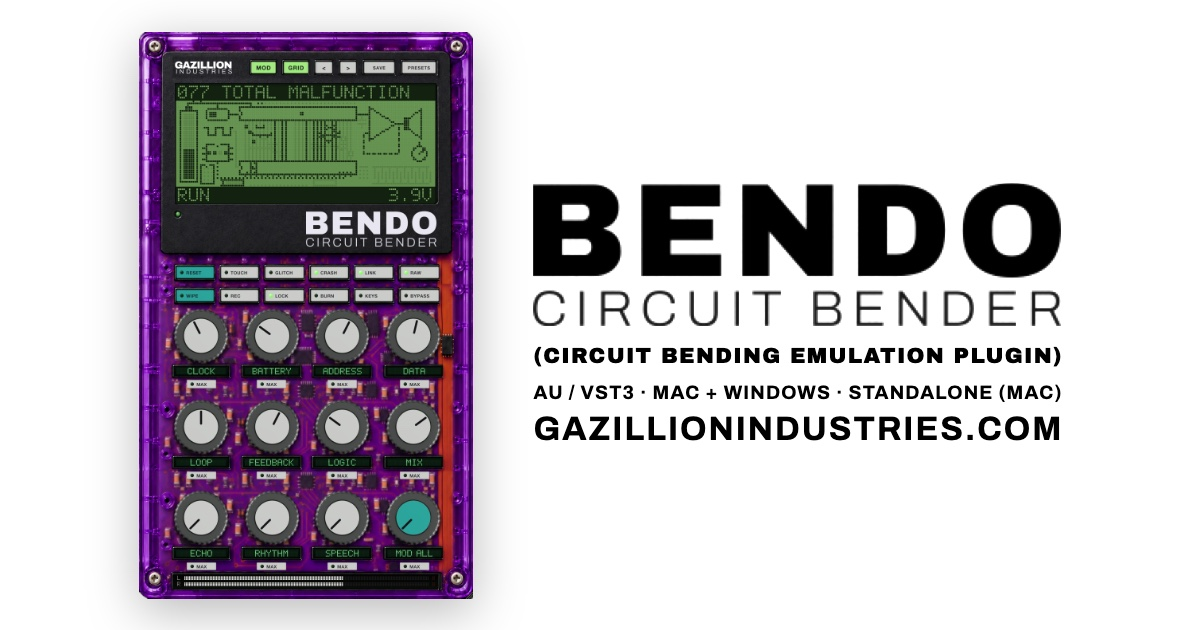
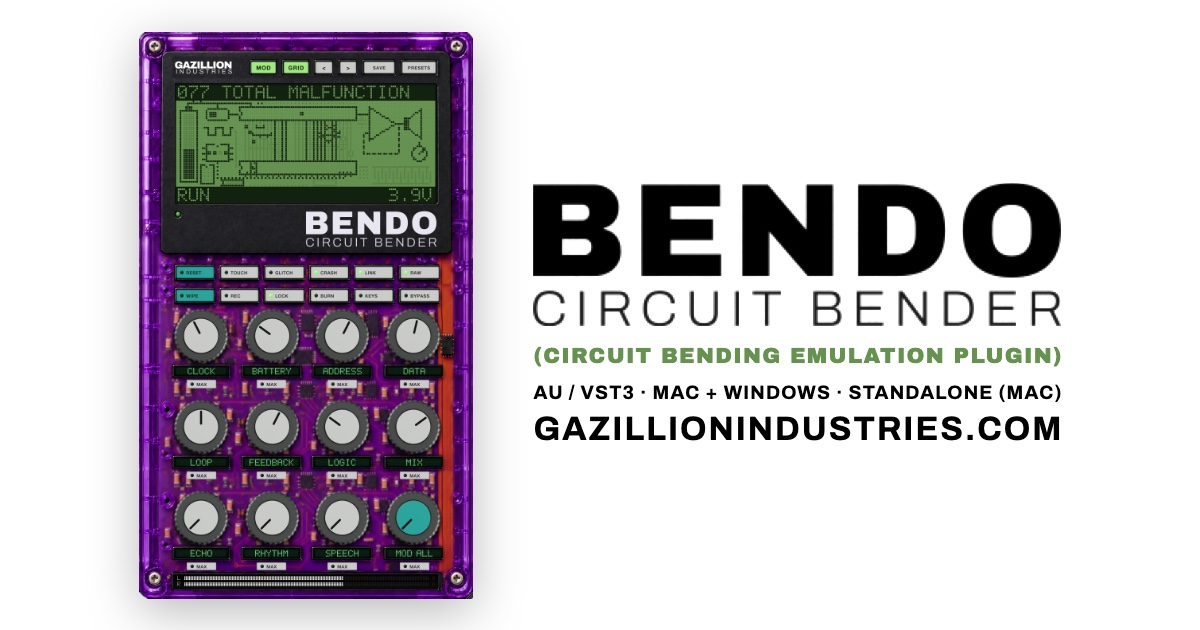
BENDO og card: category line in the panel's LCD green

Changed region(s): [[0.4317, 0.5429, 0.8942, 0.573]]

diff --git a/bendo/index.html b/bendo/index.html
@@ -1,4 +1,4 @@
-<!doctype html><html lang="en"><head><meta charset="utf-8"><meta name="viewport" content="width=device-width,initial-scale=1"><title>BENDO — circuit bending plugin</title><meta name="description" content="Add BENDO to any sound source to bend it, stretch it, or even break it. A circuit bending emulation plugin: 12 knobs, 12 keys and 83 programs. AU, VST3 and standalone on macOS; VST3 on Windows."><meta property="og:type" content="website"><meta property="og:site_name" content="Gazillion Industries"><meta property="og:title" content="BENDO — circuit bending plugin"><meta property="og:description" content="Add BENDO to any sound source to bend it, stretch it, or even break it. A circuit bending emulation plugin: 12 knobs, 12 keys and 83 programs. AU, VST3 and standalone on macOS; VST3 on Windows."><meta property="og:url" content="https://gazillionindustries.com/bendo/"><meta property="og:image" content="https://gazillionindustries.com/bendo/og.jpg?v=980ea2137cda"><meta property="og:image:width" content="1200"><meta property="og:image:height" content="630"><meta property="og:video" content="https://gazillionindustries.com/landing-20261010/bendo/media/demo.mp4?v=774a342211fb"><meta property="og:video:type" content="video/mp4"><meta property="og:video:width" content="720"><meta property="og:video:height" content="1220"><meta name="twitter:card" content="summary_large_image"><meta name="twitter:title" content="BENDO — circuit bending plugin"><meta name="twitter:description" content="Add BENDO to any sound source to bend it, stretch it, or even break it. A circuit bending emulation plugin: 12 knobs, 12 keys and 83 programs. AU, VST3 and standalone on macOS; VST3 on Windows."><meta name="twitter:image" content="https://gazillionindustries.com/bendo/og.jpg?v=980ea2137cda"><script type="application/ld+json">{"@context": "https://schema.org", "@type": "SoftwareApplication", "name": "BENDO", "alternateName": "BENDO Circuit Bender", "applicationCategory": "MultimediaApplication", "applicationSubCategory": "Circuit bending plugin", "operatingSystem": "macOS, Windows 64-bit", "softwareVersion": "2.0.1", "url": "https://gazillionindustries.com/bendo/", "image": "https://gazillionindustries.com/bendo/og.jpg?v=980ea2137cda", "description": "Add BENDO to any sound source to bend it, stretch it, or even break it. A circuit bending emulation plugin: 12 knobs, 12 keys and 83 programs. AU, VST3 and standalone on macOS; VST3 on Windows.", "featureList": ["CLOCK, BATTERY, ADDRESS, DATA, LOOP, FEEDBACK, LOGIC, MIX, ECHO, RHYTHM, SPEECH and MOD ALL knobs", "RESET, WIPE, TOUCH, GLITCH, CRASH, LINK, RAW, REC, LOCK, BURN, KEYS and BYPASS keys", "83 programs, plus your own", "Screen shows the toy's circuit board", "AU, VST3 and standalone on macOS; VST3 on Windows", "Universal binary, Apple Silicon and Intel"], "keywords": "circuit bending plugin, circuit bent VST, circuit bending VST, glitch plugin, bit crusher, bitcrusher, sample rate reduction, speak and spell, talking toy, lo-fi, lofi, toy keyboard, broken sampler, data bending, free VST, AU, VST3", "offers": {"@type": "Offer", "price": "0.00", "priceCurrency": "USD", "availability": "https://schema.org/InStock", "url": "https://gazillionindustries.com/bendo/"}, "publisher": {"@type": "Organization", "@id": "https://gazillionindustries.com/#gazillion", "name": "Gazillion Industries LLC", "url": "https://gazillionindustries.com/"}}</script><link rel="canonical" href="https://gazillionindustries.com/bendo/"><link rel="preload" href="/landing-20261010/tripleog/fonts/archivo-black.woff2?v=4eca2abdbbc1" as="font" type="font/woff2" crossorigin><link rel="stylesheet" href="/landing-20261010/tripleog/style.css?v=ce93bdda2849"><link rel="stylesheet" href="/landing-20261010/shared/social-proof.css?v=e3f529cc32f5"><link rel="stylesheet" href="/landing-20261010/bendo/bendo.css?v=fa9d58d2228b">
+<!doctype html><html lang="en"><head><meta charset="utf-8"><meta name="viewport" content="width=device-width,initial-scale=1"><title>BENDO — circuit bending plugin</title><meta name="description" content="Add BENDO to any sound source to bend it, stretch it, or even break it. A circuit bending emulation plugin: 12 knobs, 12 keys and 83 programs. AU, VST3 and standalone on macOS; VST3 on Windows."><meta property="og:type" content="website"><meta property="og:site_name" content="Gazillion Industries"><meta property="og:title" content="BENDO — circuit bending plugin"><meta property="og:description" content="Add BENDO to any sound source to bend it, stretch it, or even break it. A circuit bending emulation plugin: 12 knobs, 12 keys and 83 programs. AU, VST3 and standalone on macOS; VST3 on Windows."><meta property="og:url" content="https://gazillionindustries.com/bendo/"><meta property="og:image" content="https://gazillionindustries.com/bendo/og.jpg?v=2dd34b184961"><meta property="og:image:width" content="1200"><meta property="og:image:height" content="630"><meta property="og:video" content="https://gazillionindustries.com/landing-20261010/bendo/media/demo.mp4?v=774a342211fb"><meta property="og:video:type" content="video/mp4"><meta property="og:video:width" content="720"><meta property="og:video:height" content="1220"><meta name="twitter:card" content="summary_large_image"><meta name="twitter:title" content="BENDO — circuit bending plugin"><meta name="twitter:description" content="Add BENDO to any sound source to bend it, stretch it, or even break it. A circuit bending emulation plugin: 12 knobs, 12 keys and 83 programs. AU, VST3 and standalone on macOS; VST3 on Windows."><meta name="twitter:image" content="https://gazillionindustries.com/bendo/og.jpg?v=2dd34b184961"><script type="application/ld+json">{"@context": "https://schema.org", "@type": "SoftwareApplication", "name": "BENDO", "alternateName": "BENDO Circuit Bender", "applicationCategory": "MultimediaApplication", "applicationSubCategory": "Circuit bending plugin", "operatingSystem": "macOS, Windows 64-bit", "softwareVersion": "2.0.1", "url": "https://gazillionindustries.com/bendo/", "image": "https://gazillionindustries.com/bendo/og.jpg?v=2dd34b184961", "description": "Add BENDO to any sound source to bend it, stretch it, or even break it. A circuit bending emulation plugin: 12 knobs, 12 keys and 83 programs. AU, VST3 and standalone on macOS; VST3 on Windows.", "featureList": ["CLOCK, BATTERY, ADDRESS, DATA, LOOP, FEEDBACK, LOGIC, MIX, ECHO, RHYTHM, SPEECH and MOD ALL knobs", "RESET, WIPE, TOUCH, GLITCH, CRASH, LINK, RAW, REC, LOCK, BURN, KEYS and BYPASS keys", "83 programs, plus your own", "Screen shows the toy's circuit board", "AU, VST3 and standalone on macOS; VST3 on Windows", "Universal binary, Apple Silicon and Intel"], "keywords": "circuit bending plugin, circuit bent VST, circuit bending VST, glitch plugin, bit crusher, bitcrusher, sample rate reduction, speak and spell, talking toy, lo-fi, lofi, toy keyboard, broken sampler, data bending, free VST, AU, VST3", "offers": {"@type": "Offer", "price": "0.00", "priceCurrency": "USD", "availability": "https://schema.org/InStock", "url": "https://gazillionindustries.com/bendo/"}, "publisher": {"@type": "Organization", "@id": "https://gazillionindustries.com/#gazillion", "name": "Gazillion Industries LLC", "url": "https://gazillionindustries.com/"}}</script><link rel="canonical" href="https://gazillionindustries.com/bendo/"><link rel="preload" href="/landing-20261010/tripleog/fonts/archivo-black.woff2?v=4eca2abdbbc1" as="font" type="font/woff2" crossorigin><link rel="stylesheet" href="/landing-20261010/tripleog/style.css?v=ce93bdda2849"><link rel="stylesheet" href="/landing-20261010/shared/social-proof.css?v=e3f529cc32f5"><link rel="stylesheet" href="/landing-20261010/bendo/bendo.css?v=fa9d58d2228b">
 <link rel="stylesheet" href="/landing-20261010/bendo/press-review.css?v=5e3cf6294f90">
 
 <link rel="stylesheet" href="/landing-20261010/shared/landing-family.css?v=6323a375a763">
